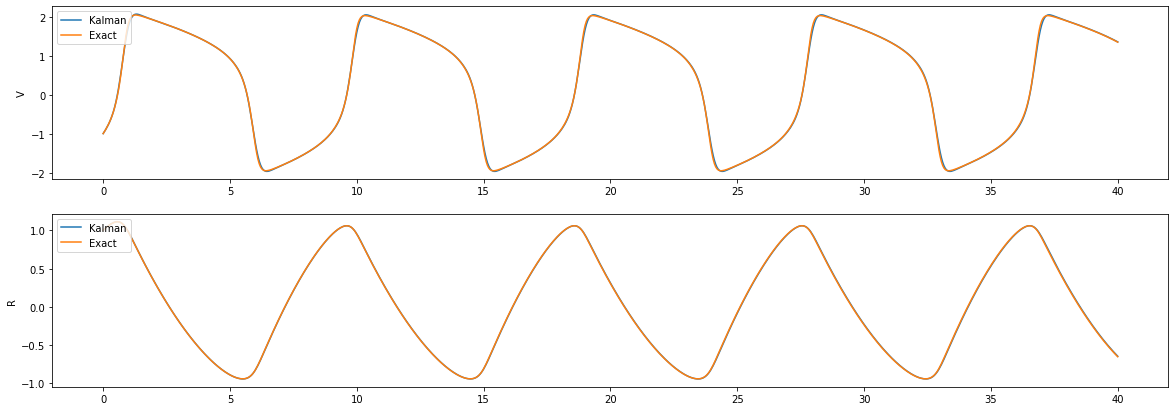
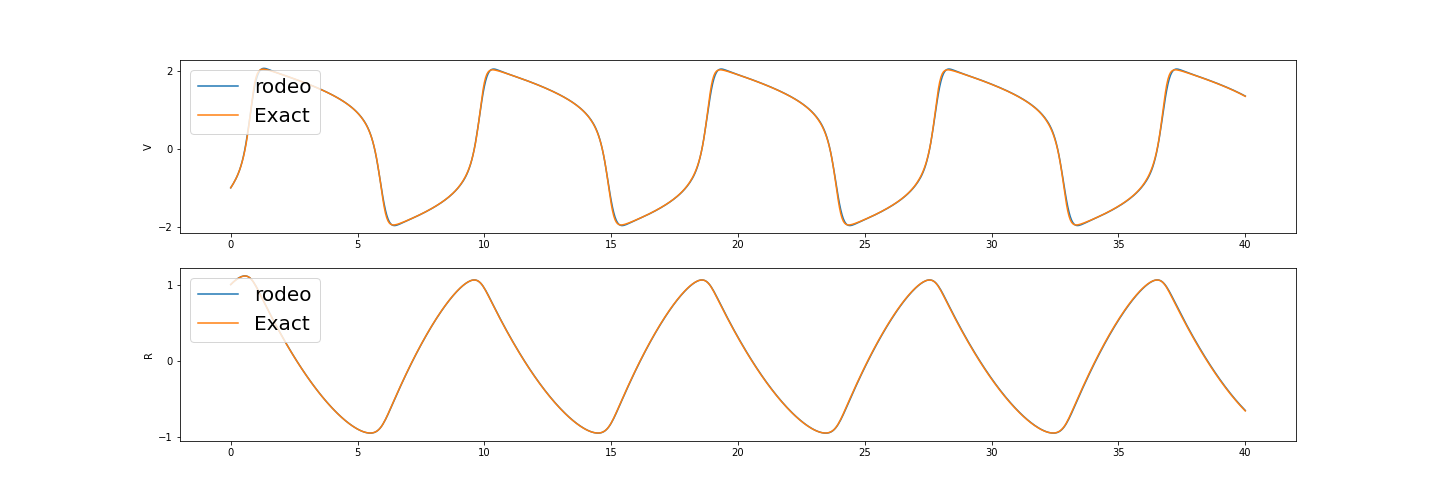
Updated examples and fixed some errors in documentation

diff --git a/src/rodeo/dalton.py b/src/rodeo/dalton.py
@@ -451,8 +451,7 @@ def loglikehood(key, fun, W, x0, theta,
         interrogate (function): Function defining the linearization method.
 
     Returns:
-        (tuple):
-        - **logdens** (float)): Compute the loglikelihood of :math:`p(y|theta, z=0)` or :math:`p(y, z=0|theta)$
+        (float): Loglikelihood of :math:`p(y_{0:M} \mid p(z_{0:N}))`.
 
     """
     # Reshaping y_obs to be in blocks 

diff --git a/src/rodeo/fenrir.py b/src/rodeo/fenrir.py
@@ -19,7 +19,7 @@ The reverse pass model is
 
     X_n = A_n X_{n+1} + b_n + C_n^{1/2} \eta_n
 
-    y_n = D X_n + Omega^{1/2} \epsilon_n.
+    y_n = D X_n + \Omega^{1/2} \epsilon_n.
 
 """
 import jax

diff --git a/docs/examples/lorenz.md b/docs/examples/lorenz.md
@@ -14,7 +14,7 @@ kernelspec:
 
 # Lorenz63: Chaotic ODE
 
-**rodeo** is also capable of solving multivariate ODEs. We will demonstrate with a multivariate ODE system called **Lorenz63**. This system has a chaotic regime depending on the initial values. For initial values $\vv = (-12, -5, 28)$, there is a deterministic phase which we can use to compare to the solution given by the `odeint` from `scipy`. The Lorenz equation is defined as follows:
+In this notebook, we consider a multivariate ODE system called **Lorenz63**. This system has a chaotic regime depending on the initial values which proves to be very difficult for ODE solvers. However, using observations, `dalton` is able compute the correct solutions. The Lorenz equation is defined as follows:
 
 \begin{equation*}
   \begin{aligned}
@@ -34,16 +34,54 @@ import jax.numpy as jnp
 from scipy.integrate import odeint
 
 from rodeo.ibm import ibm_init
-from rodeo.ode import *
+from rodeo.ode import interrogate_tronarp
+import rodeo.ode as ro
+import rodeo.fenrir as rf
+import rodeo.dalton as rd
 from jax.config import config
 config.update("jax_enable_x64", True)
 ```
 
-We explore a different interrogation method in this example. Our default is `interrogate_rodeo` which takes the current predictive mean as the interrogation. `interrogate_chkrebtii` instead takes a random draw centered at the predictive mean. [Chkrebtii et al (2016)] explains that this allows for the solver to capture the uncertainty better.
+Suppose observations are simulated using the model
+
+\begin{align*}
+\YY_i \sim \N(\xx(t_i), \phi^2 \Id_{2 \times 2})
+\end{align*}
+
+where $t_i = i$ and $i=0,1,\ldots 20$ and $\phi^2 = 0.005$. We will first simulate some noisy data using an highly accurate ODE solver (`odeint`).
 
 ```{code-cell} ipython3
 # ODE function
-def ode_fun_jax(X_t, t, theta):
+def lorenz0(X_t, t, theta):
+    rho, sigma, beta = theta
+    x, y, z = X_t
+    dx = -sigma*x + sigma*y
+    dy = rho*x - y -x*z
+    dz = -beta*z + x*y
+    return np.array([dx, dy, dz])
+
+# it is assumed that the solution is sought on the interval [tmin, tmax].
+tmin = 0.
+tmax = 20.
+theta = np.array([28, 10, 8/3])
+
+# Initial x0 for odeint
+ode0 = np.array([-12., -5., 38.])
+
+# observations
+n_obs = 20
+tseq = np.linspace(tmin, tmax, n_obs+1)
+exact = odeint(lorenz0, ode0, tseq, args=(theta,), rtol=1e-20)
+gamma = np.sqrt(.005)
+e_t = np.random.default_rng(0).normal(loc=0.0, scale=1, size=exact.shape)
+obs = exact + gamma*e_t
+```
+
+To avoid confusion, we will refer to the probabilistic solver as `rodeo` and the library as **rodeo**. Now we compare three probabilistic solvers in the **rodeo** library, namely, `rodeo`, `fenrir`, and `dalton`. The first solver does not use observations in the solution process but the latter two does. First we have the common specifications for all solvers.
+
+```{code-cell} ipython3
+# ODE function
+def lorenz(X_t, t, theta):
     rho, sigma, beta = theta
     x, y, z = X_t[:,0]
     dx = -sigma*x + sigma*y
@@ -53,76 +91,93 @@ def ode_fun_jax(X_t, t, theta):
 
 
 # problem setup and intialization
-n_deriv = 1  # Total state; q
-n_obs = 3  # Total observations
-n_deriv_prior = 3 # p
+n_deriv = 3  # Total state; q
+n_var = 3  # Total variables
+n_order = jnp.array([n_deriv]*n_var) # p
 
 # Time interval on which a solution is sought.
-n_steps = 5000
 tmin = 0.
 tmax = 20.
 theta = jnp.array([28, 10, 8/3])
 
 # The rest of the parameters can be tuned according to ODE
 # For this problem, we will use
-sigma = .5
-sigma = jnp.array([sigma]*n_obs)
+sigma = jnp.array([5e7]*n_var)
 
 # Initial W for jax block
-W_mat = np.zeros((n_obs, 1, n_deriv_prior))
+W_mat = np.zeros((n_var, 1, n_deriv))
 W_mat[:, :, 1] = 1
-W_block = jnp.array(W_mat)
+W = jnp.array(W_mat)
 
 # Initial x0 for jax block
-x0_block = jnp.array([[-12., 70., 550.], [-5., 125, -1321.], [38., -124/3, -15658/9]])
+x0 = jnp.array([[-12., 70., 0.], [-5., 125, 0.], [38., -124/3, 0.]])
 
 # Get parameters needed to run the solver
+n_res = 200
+n_steps = n_obs*n_res
 dt = (tmax-tmin)/n_steps  # step size
-n_order = jnp.array([n_deriv_prior]*n_obs)
 ode_init = ibm_init(dt, n_order, sigma)
 
-# Jit solver
-draws = 10
-sim_jit = jax.jit(solve_sim, static_argnums=(1, 7, 11))
-results = np.zeros((draws, n_steps+1, n_obs))
-for i in range(draws):
-    key = jax.random.PRNGKey(i)
-    xt = sim_jit(key=key, fun=ode_fun_jax,
-            x0=x0_block, theta=theta,
-            tmin=tmin, tmax=tmax, n_steps=n_steps,
-            W=W_block, **ode_init, interrogate=interrogate_chkrebtii)
-    results[i] = xt[:, :, 0]
-    
+# prng key
+key = jax.random.PRNGKey(0)
 ```
 
-In the plot below, we see that due to the chaotic nature of the ODE, the probabilistic solver produces different paths due to uncertainty.
+Next we define specifications required for `dalton` and `fenrir`. In particular, they expect observations to be of the form
+
+\begin{equation*}
+\YY_i \sim \N(\DD \XX_i + \cc, \OOm).
+\end{equation*}
+This translates to the following set of definitions for this 3-state ODE.
 
 ```{code-cell} ipython3
-def ode_fun(X_t, t, theta):
-    rho, sigma, beta = theta
-    x, y, z = X_t
-    dx = -sigma*x + sigma*y
-    dy = rho*x - y -x*z
-    dz = -beta*z + x*y
-    return np.array([dx, dy, dz])
-
-# Initial x0 for odeint
-ode0 = np.array([-12, -5, 38])
-
-# Get exact solutions for the Lorenz System
-tseq = np.linspace(tmin, tmax, n_steps+1)
-exact = odeint(ode_fun, ode0, tseq, args=(theta,), rtol=1e-20)
-
-# Graph the results
-_, axs = plt.subplots(3, 1, figsize=(20, 7))
-ylabel = ['x', 'y', 'z']
-for i in range(3):
-    for j in range(draws):
-        if j==0:
-            axs[i].plot(tseq, results[j, :, i], color="gray", alpha=1, label="rodeo")
-        else:
-            axs[i].plot(tseq, results[j, :, i], color="gray", alpha=1)
-    axs[i].set_ylabel(ylabel[i])
-    axs[i].plot(tseq, exact[:, i], label='Exact')
-    axs[i].legend(loc='upper left')
+y_obs = jnp.expand_dims(obs, -1) 
+mean_obs = jnp.zeros((n_var, 1))
+trans_obs = np.zeros((n_var, 1, n_deriv))
+trans_obs[:, :, 0] = 1
+trans_obs = jnp.array(trans_obs)
+var_obs = gamma**2*jnp.ones((n_var, 1, 1))
 ```
+
+We explore a different interrogation method in this example. Our default is `interrogate_rodeo` which is a mix of the zeroth-order Taylor approximation proposed by [Schober et al (2019)](http://link.springer.com/10.1007/s11222-017-9798-7) and the interrogation of [Chkrebtii et al (2016)](https://projecteuclid.org/euclid.ba/1473276259). We instead use `interrogate_tronarp` which is the first-order Taylor approximation proposed by [Tronarp et al (2018)](http://arxiv.org/abs/1810.03440) which is more accurate at the cost of computation speed.
+
+```{code-cell} ipython3
+# rodeo
+rodeo, _ = ro.solve_mv(key, lorenz, W, x0, theta, tmin, tmax, n_steps,
+                       ode_init['trans_state'], ode_init['mean_state'], ode_init['var_state'],
+                       interrogate_tronarp)
+
+# dalton
+dalton, _ = rd.solve_mv(key, lorenz, W, x0, theta, tmin, tmax, n_res,
+                        ode_init['trans_state'], ode_init['mean_state'], ode_init['var_state'],
+                        trans_obs, mean_obs, var_obs, y_obs, interrogate_tronarp)
+
+# fenrir
+fenrir, _ = rf.fenrir_mv(key, lorenz, W, x0, theta, tmin, tmax, n_res,
+                        ode_init['trans_state'], ode_init['mean_state'], ode_init['var_state'],
+                        trans_obs, mean_obs, var_obs, y_obs, interrogate_tronarp)
+```
+
+```{code-cell} ipython3
+# exact solution
+tseq_sim = np.linspace(tmin, tmax, n_steps+1)
+exact = odeint(lorenz0, ode0, tseq_sim, args=(theta,), rtol=1e-20)
+
+plt.rcParams.update({'font.size': 30})
+fig, axs = plt.subplots(n_var, figsize=(20, 10))
+ylabel = [r'$x(t)$', r'$y(t)$', r'$z(t)$']
+
+for i in range(n_var):
+    l0, = axs[i].plot(tseq_sim, rodeo[:, i, 0], label="rodeo", linewidth=3)
+    l1, = axs[i].plot(tseq_sim, dalton[:, i, 0], label="DALTON", linewidth=3)
+    l2, = axs[i].plot(tseq_sim, fenrir[:, i, 0], label="Fenrir", linewidth=3)
+    l3, = axs[i].plot(tseq_sim, exact[:, i], label='True', linewidth=2, color="black")
+    l4 = axs[i].scatter(tseq, obs[:, i], label='Obs', color='red', s=40, zorder=3)
+    axs[i].set(ylabel=ylabel[i])
+handles = [l0, l1, l2, l3, l4]
+fig.subplots_adjust(bottom=0.1, wspace=0.33)
+
+axs[2].legend(handles = handles , labels=['rodeo', 'DALTON', 'Fenrir', 'True', 'obs'], loc='upper center', 
+              bbox_to_anchor=(0.5, -0.2),fancybox=False, shadow=False, ncol=5)
+```
+
+In the plot above, we see that only `dalton` is able to recover the true ODE solution beyond $t>7.5$.

diff --git a/docs/examples/parameter.md b/docs/examples/parameter.md
@@ -12,10 +12,9 @@ kernelspec:
   name: python3
 ---
 
-
 # Parameter Inference
 
-In this notebook, we demonstrate the steps to conduct parameter inference using our data-adaptive ODE solver, **DALTON**.
+In this notebook, we demonstrate the steps to conduct parameter inference using our data-adaptive ODE solver, `dalton`.
 
 ```{code-cell} ipython3
 import jax
@@ -60,7 +59,7 @@ def fitz0(X_t, t, theta):
 # it is assumed that the solution is sought on the interval [tmin, tmax].
 tmin = 0.
 tmax = 40.
-theta = jnp.array([0.2, 0.2, 3])
+theta = np.array([0.2, 0.2, 3])
 
 # Initial x0 for odeint
 ode0 = np.array([-1., 1.])
@@ -88,7 +87,7 @@ axs[1].legend(loc=1)
 fig1.tight_layout()
 ```
 
-We now need to define the specifications for **DALTON**. In particular, **DALTON** uses variable blocking to be more computationally efficient (read more about this in our paper). **DALTON** expects observations to be of the form
+We now need to define the specifications for `dalton`. In particular, `dalton` uses variable blocking to be more computationally efficient (read more about this in our paper). `dalton` expects observations to be of the form
 
 \begin{equation*}
 \YY_i \sim \N(\DD \XX_i + \cc, \OOm).
@@ -103,7 +102,7 @@ mean_obs = jnp.zeros((2, 1))
 var_obs = gamma**2*jnp.array([[[1.]],[[1.]]])
 ```
 
-Similar to **rodeo**, we need to define the Gaussian Markov process prior using the IBM. Other choices are possible, however, we have made this simple prior available in the package. The rest of the inputs are the same as **rodeo** with `n_steps` replaced with `n_res`. This variable simply defines the resolution of the solution based on the observations. For example, `n_res=10` in this ODE would give `n_step = 10 * 40 = 400`.
+Similar to `rodeo`, we need to define the Gaussian Markov process prior using the IBM. Other choices are possible, however, we have made this simple prior available in the library. The rest of the inputs are the same as `rodeo` with `n_steps` replaced with `n_res`. This variable simply defines the resolution of the solution based on the observations. For example, `n_res=10` in this ODE would give `n_step = 10 * 40 = 400`.
 
 ```{code-cell} ipython3
 def fitz(X_t, t, theta):
@@ -112,6 +111,8 @@ def fitz(X_t, t, theta):
     V, R = X_t[:, 0]
     return jnp.array([[c*(V - V*V*V/3 + R)],
                       [-1/c*(V - a + b*R)]])
+# ode parameter 
+theta = jnp.array([0.2, 0.2, 3])
 
 # problem setup and intialization
 n_deriv = 1  # Total state; q
@@ -153,11 +154,11 @@ Parameter inference is then accomplished by way of a Laplace approximation, for 
 \begin{equation*}
     \tth \mid \YY_{0:M} \approx \N(\hat \tth, \hat \VV_{\tth}),
 \end{equation*}
-where $\hat \tth = \argmax_{\tth} \log p(\tth \mid \YY_{0:M})$ and $\hat \VV_{\tth} = -\big[\frac{\partial^2}{\partial \tth \partial \tth'} \log p(\hat \tth \mid \YY_{0:M})\big]^{-1}$. 
+where $\hat \tth = \argmax_{\tth} \log p(\tth \mid \YY_{0:M})$ and $\hat \VV_{\tth} = -\big[\frac{\partial^2}{\partial \tth \partial \tth'} \log p(\hat \tth \mid \YY_{0:M})\big]^{-1}$.
 
 +++
 
-We define the prior and posterior functions necessary to conduct parameter inference. The key function to focus is `dalton_nlpost` which takes in `phi = (log a, log b, log c, V(0), R(0))`. It uses the ODE and the $V(0), R(0)$ to compute the  $dV(0), dR(0)$ required for **DALTON** and then zero pad it an extra dimension which helps with accuracy. The other three parameters $\log a, \log b, \log c$ needs to be exponentiated first before it is input to **DALTON** since **DALTON** assumes they are on the regular scale. The function `phi_fit` essentially computes the Laplace approximation detailed above. We use the **jaxopt** package as it supports optimization using **jax**. We choose `Newton-CG` as our optimization algorithm but there are many other possible choices. Consult the **jaxopt** documentation if you are interested in this package.
+We define the prior and posterior functions necessary to conduct parameter inference. The key function to focus is `dalton_nlpost` which takes in `phi = (log a, log b, log c, V(0), R(0))`. It uses the ODE and the $V(0), R(0)$ to compute the  $dV(0), dR(0)$ required for `dalton` and then zero pad it an extra dimension which helps with accuracy. The other three parameters $\log a, \log b, \log c$ needs to be exponentiated first before it is input to `dalton` since `dalton` assumes they are on the regular scale. The function `phi_fit` essentially computes the Laplace approximation detailed above. We use the **jaxopt** library as it supports optimization using **jax**. We choose `Newton-CG` as our optimization algorithm but there are many other possible choices. Consult the **jaxopt** documentation if you are interested in this library.
 
 ```{code-cell} ipython3
 def logprior(x, mean, sd):

diff --git a/docs/examples/tutorial.md b/docs/examples/tutorial.md
@@ -18,7 +18,7 @@ kernelspec:
 
 ## Description
 
-**rodeo** is a Python library that uses [probabilistic numerics](http://probabilistic-numerics.org/) to solve ordinary differential equations (ODEs).  That is, most ODE solvers (such as [Euler's method](https://en.wikipedia.org/wiki/Euler_method)) produce a deterministic approximation to the ODE on a grid of size $\delta$.  As $\delta$ goes to zero, the approximation converges to the true ODE solution.  Probabilistic solvers such as **rodeo** also output a solution an a grid of size $\delta$; however, the solution is random.  Still, as $\delta$ goes to zero we get the correct answer.
+**rodeo** is a Python library that uses [probabilistic numerics](http://probabilistic-numerics.org/) to solve ordinary differential equations (ODEs).  That is, most ODE solvers (such as [Euler's method](https://en.wikipedia.org/wiki/Euler_method)) produce a deterministic approximation to the ODE on a grid of size $\delta$.  As $\delta$ goes to zero, the approximation converges to the true ODE solution.  Probabilistic solvers also output a solution an a grid of size $\delta$; however, the solution is random.  Still, as $\delta$ goes to zero we get the correct answer.
 
 **rodeo** provides a probabilistic solver for univariate process x(t) of the form
 
@@ -28,7 +28,7 @@ kernelspec:
 
 where $\xx(t) = \big(x^{(0)}(t), x^{(1)}(t), ..., x^{(q)}(t)\big)$ consists of $x(t)$ and its first $q$ derivatives, $\WW$ is a coefficient matrix, and $f(\xx(t), t)$ is typically a nonlinear function.
 
-**rodeo** implements the probabilistic solver of [Chkrebtii et al (2016)](https://projecteuclid.org/euclid.ba/1473276259).  This begins by putting a [Gaussian process](https://en.wikipedia.org/wiki/Gaussian_process) prior on the ODE solution, and updating it sequentially as the solver steps through the grid.
+**rodeo** begins by putting a [Gaussian process](https://en.wikipedia.org/wiki/Gaussian_process) prior on the ODE solution, and updating it sequentially as the solver steps through the grid.
 
 ```{code-cell} ipython3
 import jax
@@ -127,8 +127,9 @@ tseq = np.linspace(tmin, tmax, n_steps+1)
 exact = odeint(ode_fun, ode0, tseq, args=(theta,))
 
 # Graph the results
-_, axs = plt.subplots(2, 1, figsize=(20, 7))
+fig, axs = plt.subplots(2, 1, figsize=(20, 7))
 ylabel = ['V', 'R']
+plt.rcParams.update({'font.size': 20})
 for i in range(2):
     axs[i].plot(tseq, xt[:, i, 0], label="rodeo")
     axs[i].set_ylabel(ylabel[i])

diff --git a/README.md b/README.md
@@ -64,7 +64,6 @@ make html
 This will create the documentation in `docs/build`.
 
 ## Walkthrough
-===========
 
 To illustrate the set-up, let's consider the following ODE example (**FitzHugh-Nagumo** model) where $q=1$ for both variables:
 
@@ -156,6 +155,9 @@ xt = mv_jit(key=key, fun=ode_fun_jax,
 ```
 
 We compare the solution from the solver to the deterministic solution provided by `odeint` in the **scipy** library. 
+
+![fitzsol](docs/figures/fitzsol.png)
+
 ## Results
 
 **rodeo** is also capable of performing parameter inference. The main results for three different ODEs found in `/examples/`:

diff --git a/docs/index.md b/docs/index.md
@@ -9,14 +9,14 @@ API Documentation
 :maxdepth: 1
 :caption: API Documentation
 
-ode.rst
 kalmantv.rst
 ibm.rst
-fenrir.rst
+ode.rst
 oc_mcmc.rst
+fenrir.rst
+dalton.rst
 gauss_markov.rst
 utils.rst
-dalton.rst
 ```
 
 Examples
@@ -25,5 +25,8 @@ Examples
 :maxdepth: 1
 :caption: Examples
 
-examples.rst
+examples/tutorial.md
+examples/higher_order.md
+examples/lorenz.md
+examples/parameter.md
 ```
